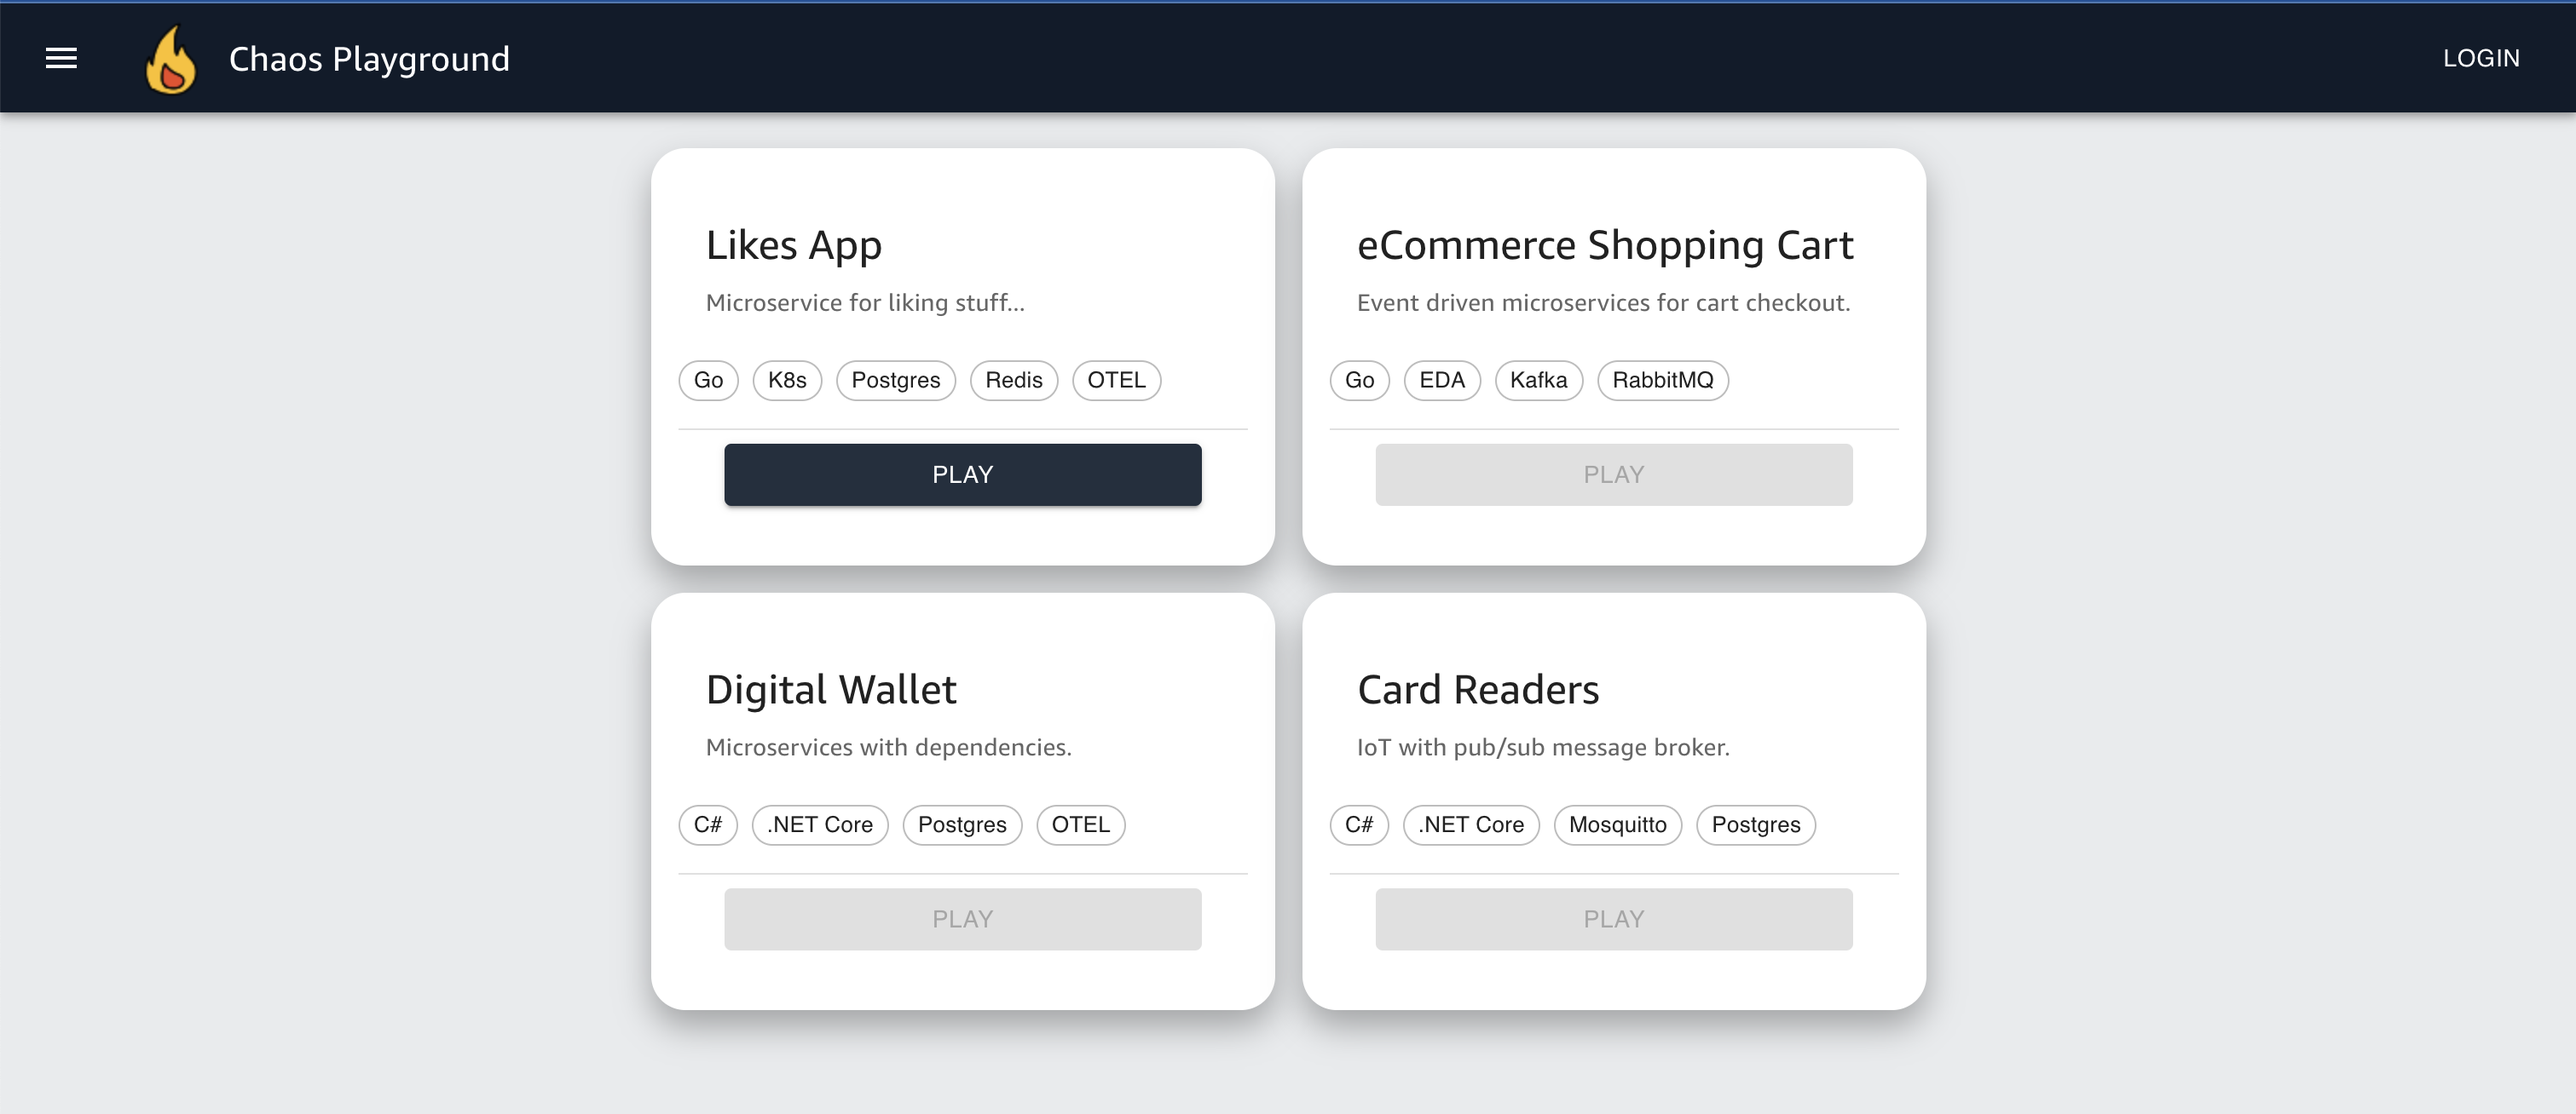
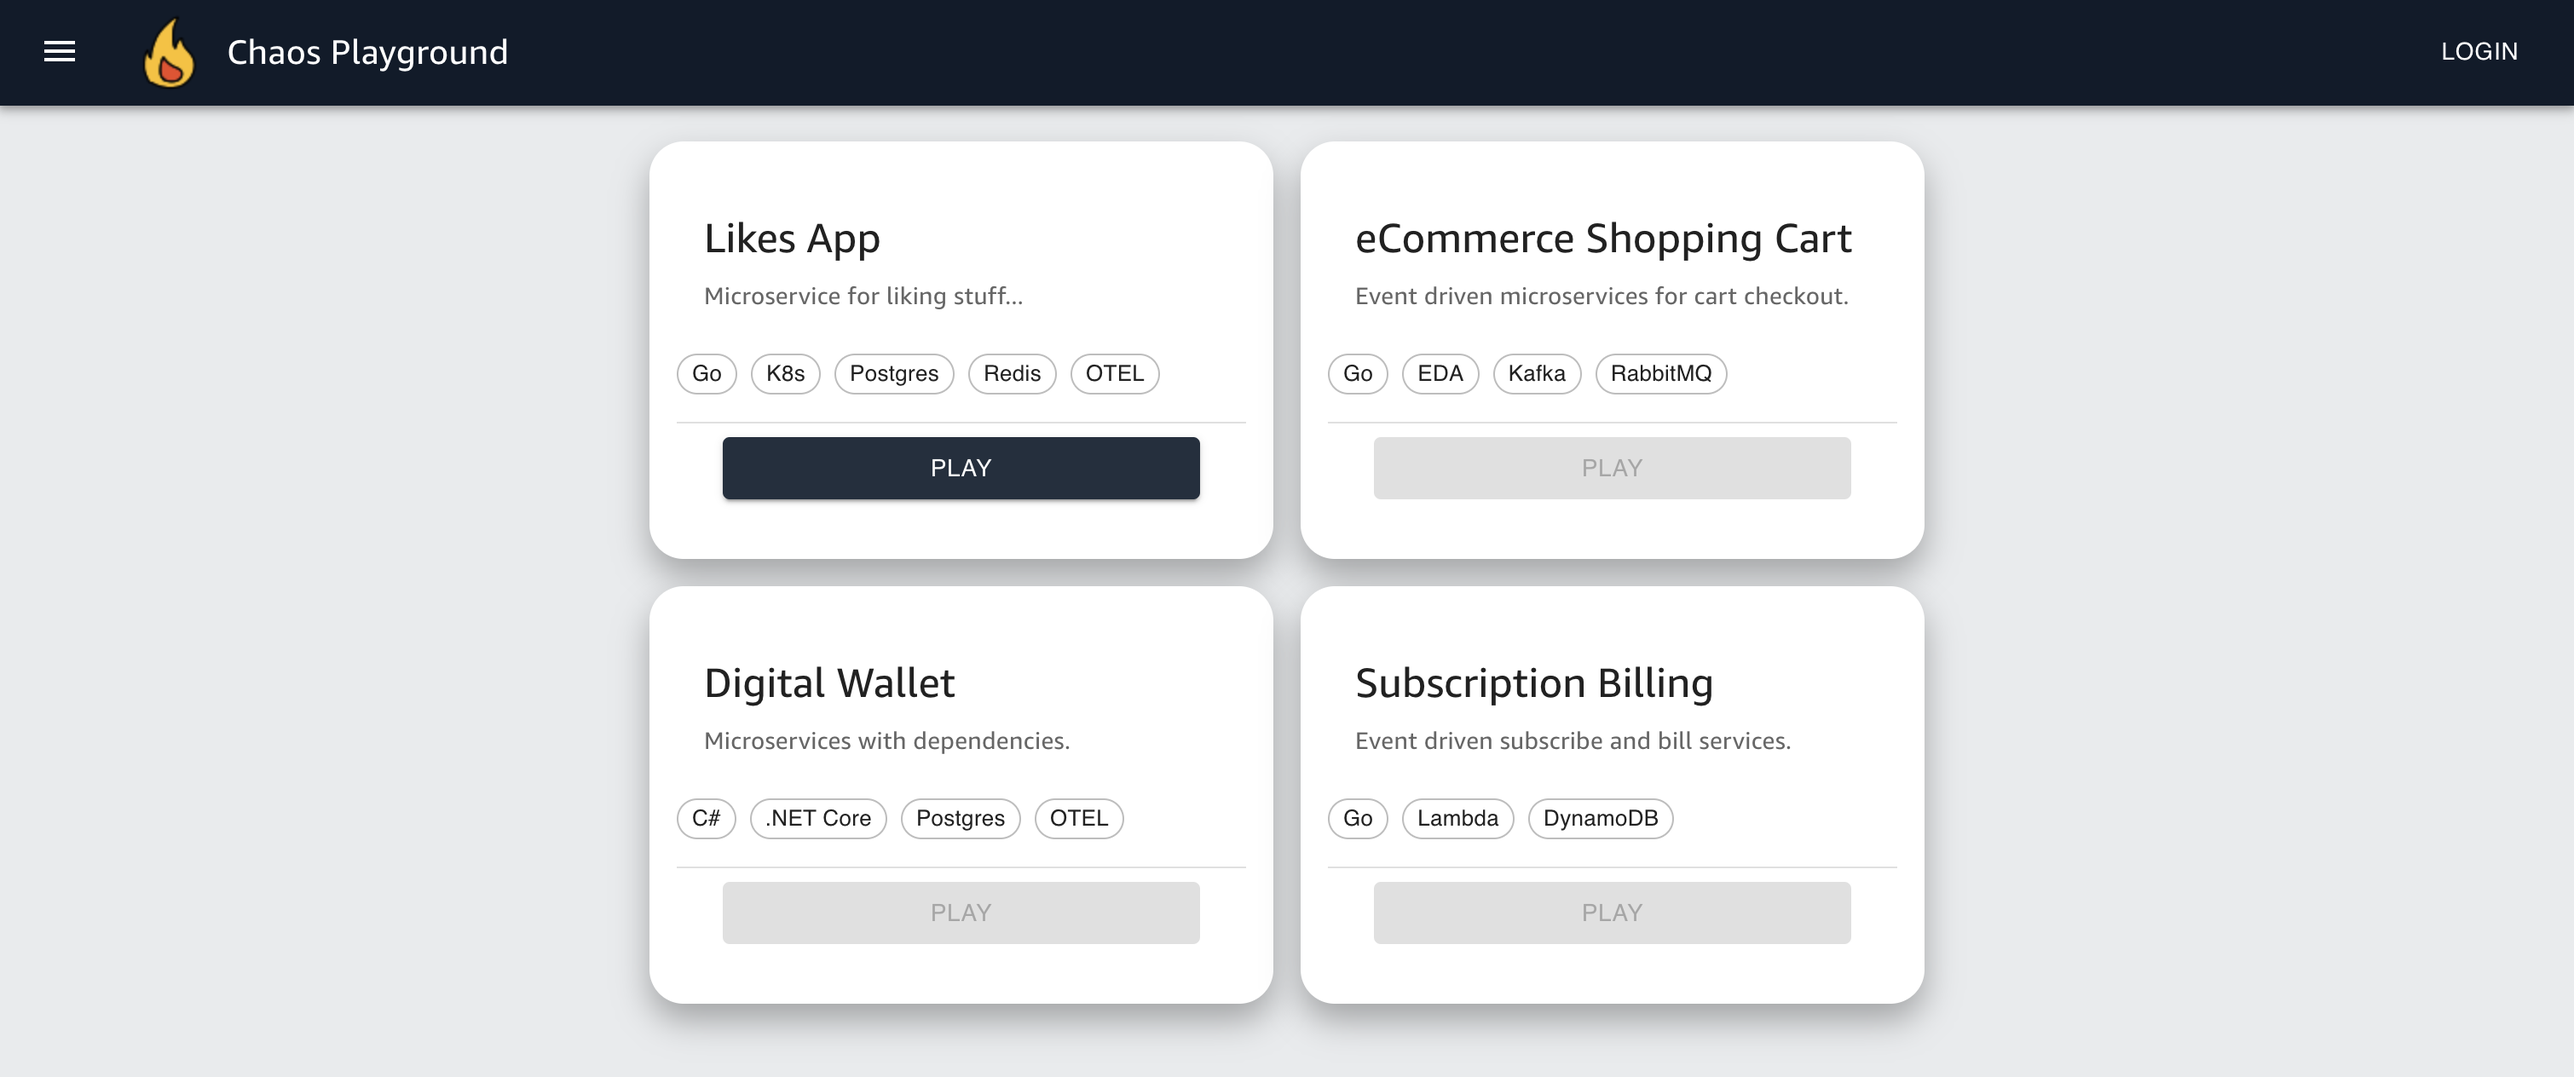
add subscribe and bill service placeholder

diff --git a/apps/ui-app/src/routing/AppsPage.js b/apps/ui-app/src/routing/AppsPage.js
@@ -16,7 +16,7 @@ function AppsPage() {
         { "name": "Likes App", "description": "Microservice for liking stuff...", "labels": ["Go", "K8s", "Postgres", "Redis", "OTEL"], "disabled": false },
         { "name": "eCommerce Shopping Cart", "description": "Event driven microservices for cart checkout.", "labels": ["Go", "EDA", "Kafka", "RabbitMQ"], "disabled": true },
         { "name": "Digital Wallet", "description": "Microservices with dependencies.", "labels": ["C#", ".NET Core", "Postgres", "OTEL"], "disabled": true },
-        { "name": "Card Readers", "description": "IoT with pub/sub message broker.", "labels": ["C#", ".NET Core", "Mosquitto", "Postgres"], "disabled": true }
+        { "name": "Subscription Billing", "description": "Event driven subscribe and bill services.", "labels": ["Go", "Lambda", "DynamoDB"], "disabled": true }
     ]
 
     const displayApps = () => {
